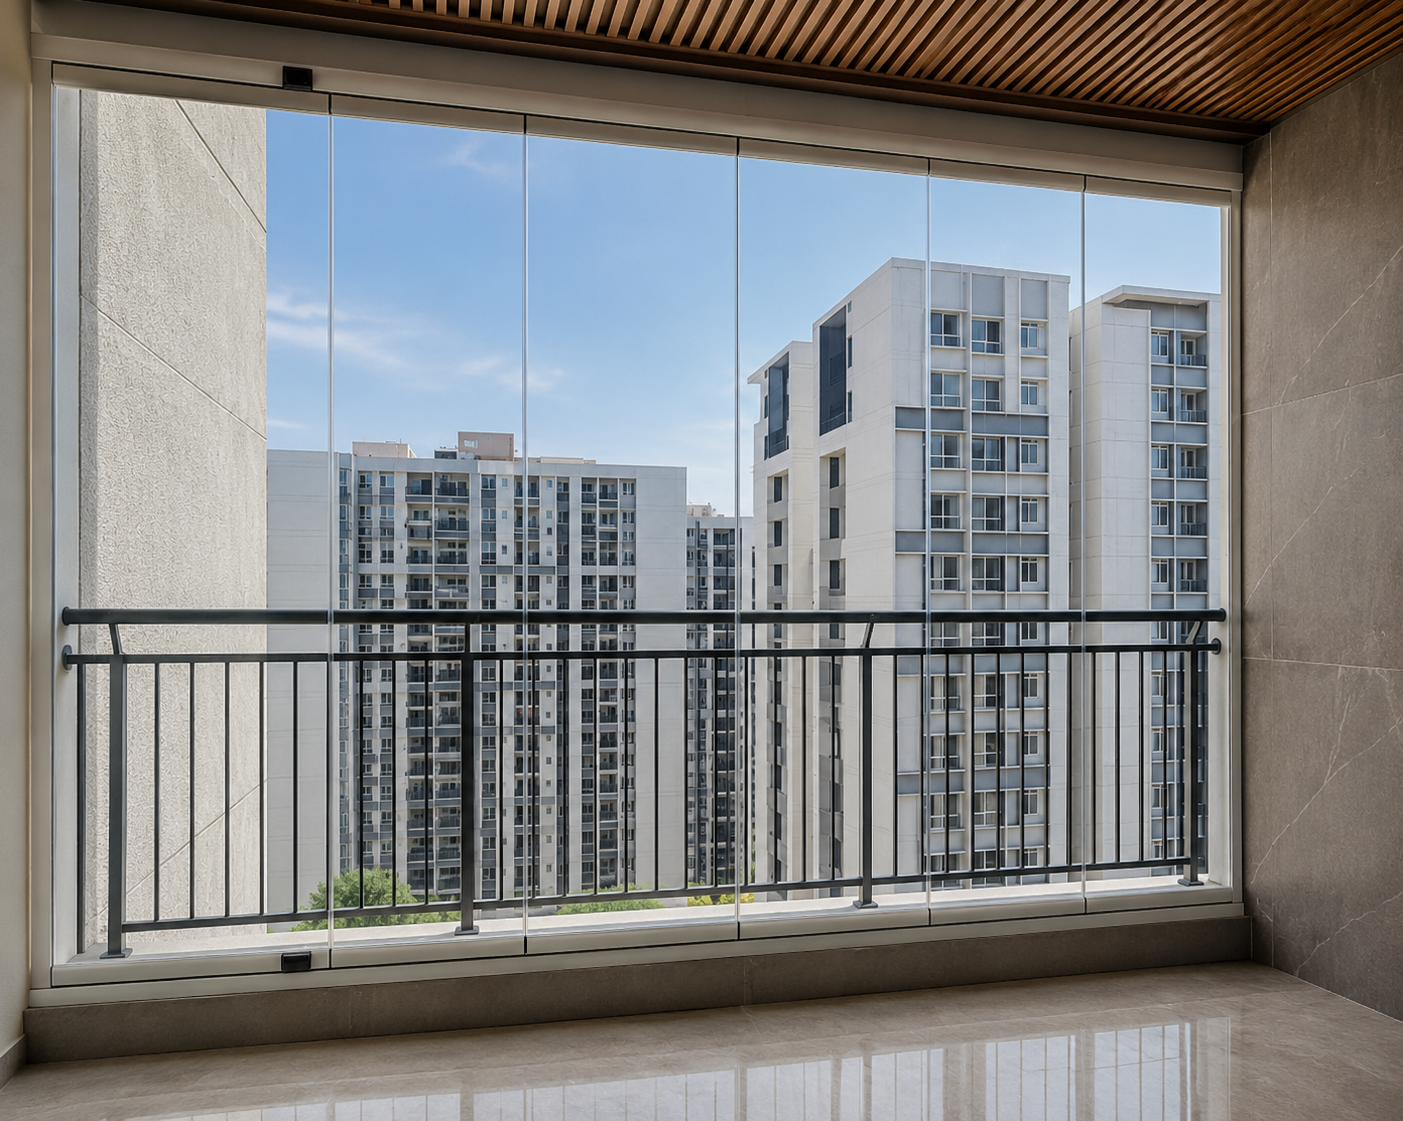
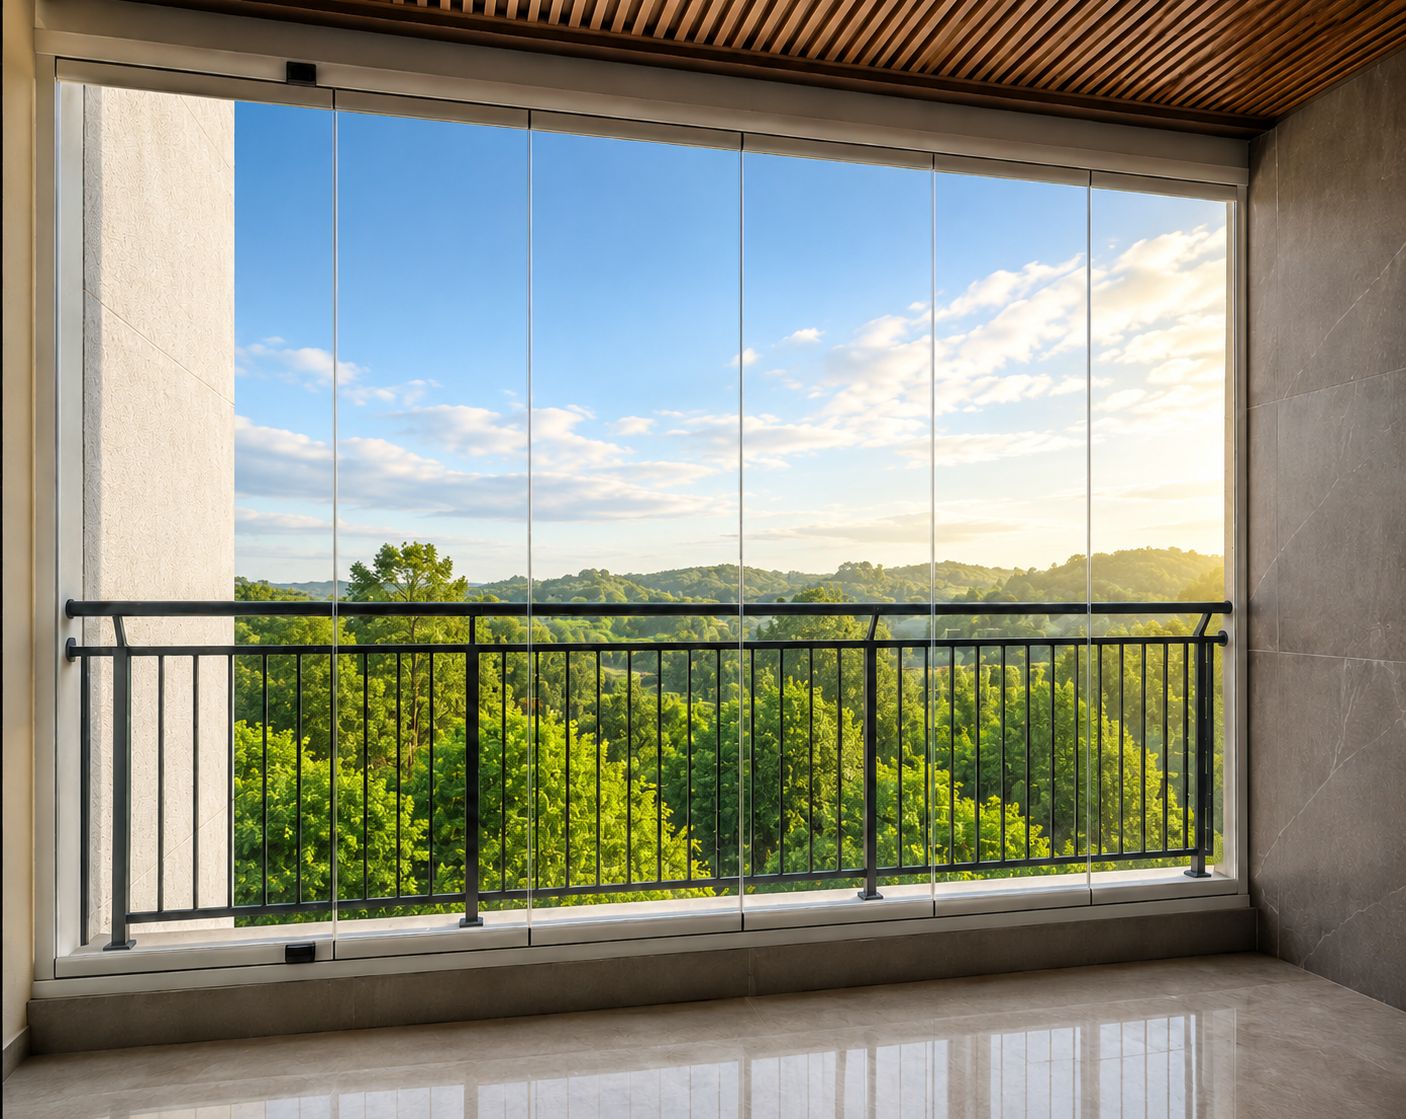
i think final changes

diff --git a/src/pages/GalleryDetail.tsx b/src/pages/GalleryDetail.tsx
@@ -172,12 +172,33 @@ export default function GalleryDetail({ type }: GalleryDetailProps) {
     filteredImages = filteredImages.filter(img => img.includes('3_track'));
   } else if (normalizedId === 'top-hang-bi-fold' && variant === 'bi-fold') {
     filteredImages = galleryData['foldable-doors-(bi-fold)']?.images || [];
+  } else if (normalizedId === 'int-partition') {
+    if (variant === 'bi-fold') {
+      filteredImages = galleryData['top-hang-bi-fold']?.images || [];
+    } else if (variant === 'telescopic') {
+      filteredImages = galleryData['telescopic-sliders']?.images || [];
+    } else if (variant === 'center-open') {
+      filteredImages = galleryData['synchronized-systems']?.images || [];
+    } else {
+      filteredImages = [
+        ...(galleryData['top-hang-bi-fold']?.images || []),
+        ...(galleryData['telescopic-sliders']?.images || []),
+        ...(galleryData['synchronized-systems']?.images || [])
+      ];
+    }
   }
 
   // For top-hang-bi-fold, use a combined title when in bi-fold sub-tab
-  const displayTitle = (normalizedId === 'top-hang-bi-fold' && variant === 'bi-fold')
-    ? 'Bi Fold (Foldable Doors)'
-    : rawData?.title || '';
+  let displayTitle = rawData?.title || '';
+  if (normalizedId === 'top-hang-bi-fold' && variant === 'bi-fold') {
+    displayTitle = 'Bi Fold (Foldable Doors)';
+  } else if (normalizedId === 'int-partition' && variant === 'bi-fold') {
+    displayTitle = 'Bi Fold';
+  } else if (normalizedId === 'int-partition' && variant === 'telescopic') {
+    displayTitle = 'Telescopic';
+  } else if (normalizedId === 'int-partition' && variant === 'center-open') {
+    displayTitle = 'Synchronized System';
+  }
 
   const data = rawData ? { ...rawData, title: displayTitle, images: filteredImages } : null;
   const [selectedImageIndex, setSelectedImageIndex] = useState<number | null>(null);
@@ -201,25 +222,6 @@ export default function GalleryDetail({ type }: GalleryDetailProps) {
       setSelectedImageIndex((selectedImageIndex - 1 + data.images.length) % data.images.length);
     }
   };
-
-  const isUnapproved = isApplication && (normalizedId === 'exterior' || normalizedId === 'garden' || normalizedId === 'int-partition');
-
-  if (isUnapproved) {
-    return (
-      <div className="pt-40 pb-12 lg:pb-16 px-6 min-h-screen bg-slate-50 flex flex-col items-center justify-center text-center">
-        <div className="bg-white p-12 rounded-xl shadow-lg border border-red-100 max-w-lg w-full">
-          <div className="w-16 h-16 bg-red-100 text-red-500 rounded-full flex items-center justify-center mx-auto mb-6">
-            <X size={32} />
-          </div>
-          <h1 className="text-3xl font-serif text-slate-900 mb-4">Not Approved Yet</h1>
-          <p className="text-slate-500 font-light mb-8">The images and details for this application area have not been approved for public display.</p>
-          <button onClick={() => navigate(-1)} className="text-luxury-gold hover:text-slate-900 transition-colors uppercase tracking-widest text-sm font-semibold flex items-center justify-center gap-2 mx-auto cursor-pointer border-none bg-transparent">
-            <ArrowLeft size={16} /> Go Back
-          </button>
-        </div>
-      </div>
-    );
-  }
 
   if (!data) {
     return (
@@ -348,6 +350,35 @@ export default function GalleryDetail({ type }: GalleryDetailProps) {
                 className={`px-4 py-2 text-sm font-medium uppercase tracking-wider rounded-sm transition-colors cursor-pointer border-none ${variant === 'bi-fold' ? 'bg-luxury-gold text-white' : 'bg-slate-100 text-slate-600 hover:bg-slate-200'}`}
               >
                 Bi Fold
+              </button>
+            </div>
+          )}
+
+          {normalizedId === 'int-partition' && (
+            <div className="flex flex-wrap justify-center sm:justify-start gap-4 mb-8">
+              <button
+                onClick={() => setSearchParams({}, { replace: true })}
+                className={`px-4 py-2 text-sm font-medium uppercase tracking-wider rounded-sm transition-colors cursor-pointer border-none ${!variant ? 'bg-luxury-gold text-white' : 'bg-slate-100 text-slate-600 hover:bg-slate-200'}`}
+              >
+                All
+              </button>
+              <button
+                onClick={() => setSearchParams({ variant: 'bi-fold' }, { replace: true })}
+                className={`px-4 py-2 text-sm font-medium uppercase tracking-wider rounded-sm transition-colors cursor-pointer border-none ${variant === 'bi-fold' ? 'bg-luxury-gold text-white' : 'bg-slate-100 text-slate-600 hover:bg-slate-200'}`}
+              >
+                Bi Fold
+              </button>
+              <button
+                onClick={() => setSearchParams({ variant: 'telescopic' }, { replace: true })}
+                className={`px-4 py-2 text-sm font-medium uppercase tracking-wider rounded-sm transition-colors cursor-pointer border-none ${variant === 'telescopic' ? 'bg-luxury-gold text-white' : 'bg-slate-100 text-slate-600 hover:bg-slate-200'}`}
+              >
+                Telescopic
+              </button>
+              <button
+                onClick={() => setSearchParams({ variant: 'center-open' }, { replace: true })}
+                className={`px-4 py-2 text-sm font-medium uppercase tracking-wider rounded-sm transition-colors cursor-pointer border-none ${variant === 'center-open' ? 'bg-luxury-gold text-white' : 'bg-slate-100 text-slate-600 hover:bg-slate-200'}`}
+              >
+                Synchronized System
               </button>
             </div>
           )}

diff --git a/src/data/galleryData.ts b/src/data/galleryData.ts
@@ -85,28 +85,24 @@ export const galleryData: Record<string, GalleryItem> = {
     "title": "Exterior",
     "description": "Built for resilience, our rigid wind resistance profile constructs are ideal for high-rise elevations. These exterior glass systems are engineered to withstand extreme weather conditions, ensuring maximum safety, acoustic insulation, and a striking, modern architectural facade.",
     "images": [
-      "/gallery/Applications/Exterior/IMG-20230416-WA0001.jpg",
-      "/gallery/Applications/Exterior/IMG-20230416-WA0009.jpg",
-      "/gallery/Applications/Exterior/IMG-20230416-WA0010.jpg",
-      "/gallery/Applications/Exterior/IMG-20230416-WA0015.jpg",
-      "/gallery/Applications/Exterior/IMG-20230416-WA0016.jpg",
-      "/gallery/Applications/Exterior/IMG-20230416-WA0019.jpg",
-      "/gallery/Applications/Exterior/IMG-20230417-WA0008.jpg"
+
+
+      "/gallery/Applications/Exterior/ChatGPT%20Image%20Jul%2011,%202026,%2010_51_25%20AM.png",
+      "/gallery/Applications/Exterior/ChatGPT%20Image%20Jul%2011,%202026,%2011_12_59%20AM.png",
+      "/gallery/Applications/Exterior/ChatGPT%20Image%20Jul%2011,%202026,%2011_18_42%20AM.png",
+      "/gallery/Applications/Exterior/ChatGPT%20Image%20Jul%2021,%202026,%2010_54_23%20AM.png"
     ]
   },
   "garden": {
     "title": "Garden",
     "description": "Enhance your outdoor living spaces with glass enclosures that blend beauty with functionality, perfect for garden houses, patios, and gazebos. Create a modern glass oasis that keeps you connected to your garden throughout the seasons.",
     "images": [
-      "/gallery/Applications/Garden/FARMHOUSEHERO.jpg",
-      "/gallery/Applications/Garden/bifold_glass.png",
-      "/gallery/Applications/Garden/IMG_4395.jpg",
-      "/gallery/Applications/Garden/IMG_4402.jpg",
-      "/gallery/Applications/Garden/IMG_4403.jpg",
-      "/gallery/Applications/Garden/IMG_4408.jpg",
-      "/gallery/Applications/Garden/roof.png",
-      "/gallery/Applications/Garden/WhatsApp%20Image%[phone redacted]%20at%[phone redacted]%20PM.jpg",
-      "/gallery/Applications/Garden/wind%20breaker.png"
+
+      "/gallery/Applications/Garden/2.png",
+      "/gallery/Applications/Garden/3.png",
+      "/gallery/Applications/Garden/9.png",
+      "/gallery/Applications/Garden/ChatGPT%20Image%20Jul%2011,%202026,%2011_56_49%20AM.png",
+      "/gallery/Applications/Garden/ChatGPT%20Image%20Jul%2011,%202026,%2012_25_03%20PM.png"
     ]
   },
   "bathroom-encloser": {
@@ -187,11 +183,13 @@ export const galleryData: Record<string, GalleryItem> = {
     "title": "Synchronized Systems",
     "description": "The Synchronized Center Open System — a multi-panel sliding system for interior spaces. Quiet operation, sleek hardware, and automated-feeling movement that slides multiple panels simultaneously from the centre open.",
     "images": [
+      "/gallery/Systems/Synchronized%20Systems/5.png",
+      "/gallery/Systems/Synchronized%20Systems/6.png",
       "/gallery/Systems/Synchronized%20Systems/ChatGPT%20Image%20Jul%2010,%202026,%2003_20_35%20PM%20(2).png",
       "/gallery/Systems/Synchronized%20Systems/ChatGPT%20Image%20Jul%2014,%202026,%2001_45_59%20PM.png",
       "/gallery/Systems/Synchronized%20Systems/ChatGPT%20Image%20Jul%2014,%202026,%2001_46_04%20PM.png",
       "/gallery/Systems/Synchronized%20Systems/ChatGPT%20Image%20Jul%2014,%202026,%2001_46_09%20PM.png",
-      "/gallery/Systems/Synchronized%20Systems/ChatGPT%20Image%20Jul%2014,%202026,%2001_46_13%20PM.png"
+
     ]
   },
   "top-hang-bi-fold": {

diff --git a/src/pages/Applications.tsx b/src/pages/Applications.tsx
@@ -60,7 +60,7 @@ export default function Applications() {
         {/* Background Image */}
         <div className="absolute inset-0 z-0 pointer-events-none overflow-hidden">
           <img 
-            src="/guillotine_banner.webp" 
+            src="/gallery/Systems/Slide%20&%20Turn/Slide & Turn.jpg.jpeg" 
             alt="Applications Background" 
             className="w-full h-full object-cover opacity-55"
           />
@@ -85,7 +85,6 @@ export default function Applications() {
           </div>
           <div className="grid grid-cols-1 md:grid-cols-4 gap-8">
             {featuredApps.map((app, idx) => {
-              const isUnapproved = app.title === "Exterior" || app.title === "Garden" || app.title === "Int. Partition";
               return (
                 <div
                   key={idx}
@@ -98,11 +97,6 @@ export default function Applications() {
                         className="w-full h-full object-cover transition-transform duration-700 group-hover:scale-105"
                         referrerPolicy="no-referrer"
                       />
-                      {isUnapproved && (
-                        <div className="absolute top-4 right-4 bg-red-600/90 backdrop-blur-sm text-white text-[9px] uppercase font-bold tracking-widest px-3 py-1 rounded-sm shadow-md z-10">
-                          Not Approved Yet
-                        </div>
-                      )}
                       {/* Hover Overlay */}
                       <div className="absolute inset-0 bg-white/95 opacity-0 group-hover:opacity-100 transition-opacity duration-500 flex flex-col items-center justify-center p-6 text-center z-0">
                         <app.icon size={32} strokeWidth={1.5} className="text-luxury-gold mb-4" />

diff --git a/src/pages/About.tsx b/src/pages/About.tsx
@@ -26,7 +26,7 @@ export default function About() {
         {/* Background Image */}
         <div className="absolute inset-0 z-0 pointer-events-none overflow-hidden">
           <img loading="lazy" 
-            src="/synchronized_banner.jpg" 
+            src="/gallery/Systems/Slide%20&%20Turn/Slide & Turn (5).jpg.jpeg" 
             alt="About Infiwin Background" 
             className="w-full h-full object-cover opacity-55"
           />

diff --git a/src/pages/Concepts.tsx b/src/pages/Concepts.tsx
@@ -200,7 +200,7 @@ export default function Concepts() {
         {/* Background Image */}
         <div className="absolute inset-0 z-0 pointer-events-none overflow-hidden">
           <img loading="lazy"
-            src="/bifold_banner.jpg"
+            src="/gallery/Systems/Slide%20&%20Turn/Slide & Turn (2).jpg.png"
             alt="Concepts Background"
             className="w-full h-full object-cover opacity-55"
           />

diff --git a/src/pages/Contact.tsx b/src/pages/Contact.tsx
@@ -425,7 +425,7 @@ export default function Contact() {
         <div className="absolute inset-0 z-0">
           <img
             loading="lazy"
-            src="/farmhouse_hero.png"
+            src="/gallery/Systems/Slide%20&%20Turn/Slide & Turn (4).jpg.jpeg"
             alt="Contact Background"
             className="w-full h-full object-cover"
           />

diff --git a/src/pages/FAQ.tsx b/src/pages/FAQ.tsx
@@ -136,7 +136,7 @@ export default function FAQ() {
         {/* Background Image */}
         <div className="absolute inset-0 z-0 pointer-events-none overflow-hidden">
           <img loading="lazy" 
-            src="/openable_banner.jpg" 
+            src="/gallery/Systems/Slide%20&%20Turn/Slide & Turn (3).jpg.jpeg" 
             alt="FAQ Background" 
             className="w-full h-full object-cover opacity-55"
           />

diff --git a/src/pages/Products.tsx b/src/pages/Products.tsx
@@ -39,7 +39,7 @@ export default function Products() {
         {/* Background Image */}
         <div className="absolute inset-0 z-0 pointer-events-none overflow-hidden">
           <img 
-            src="/st_hero.webp"
+            src="/gallery/Systems/Slide%20&%20Turn/Slide & Turn (1).jpg.jpeg"
             alt="Products Background"
             className="w-full h-full object-cover opacity-55"
           />